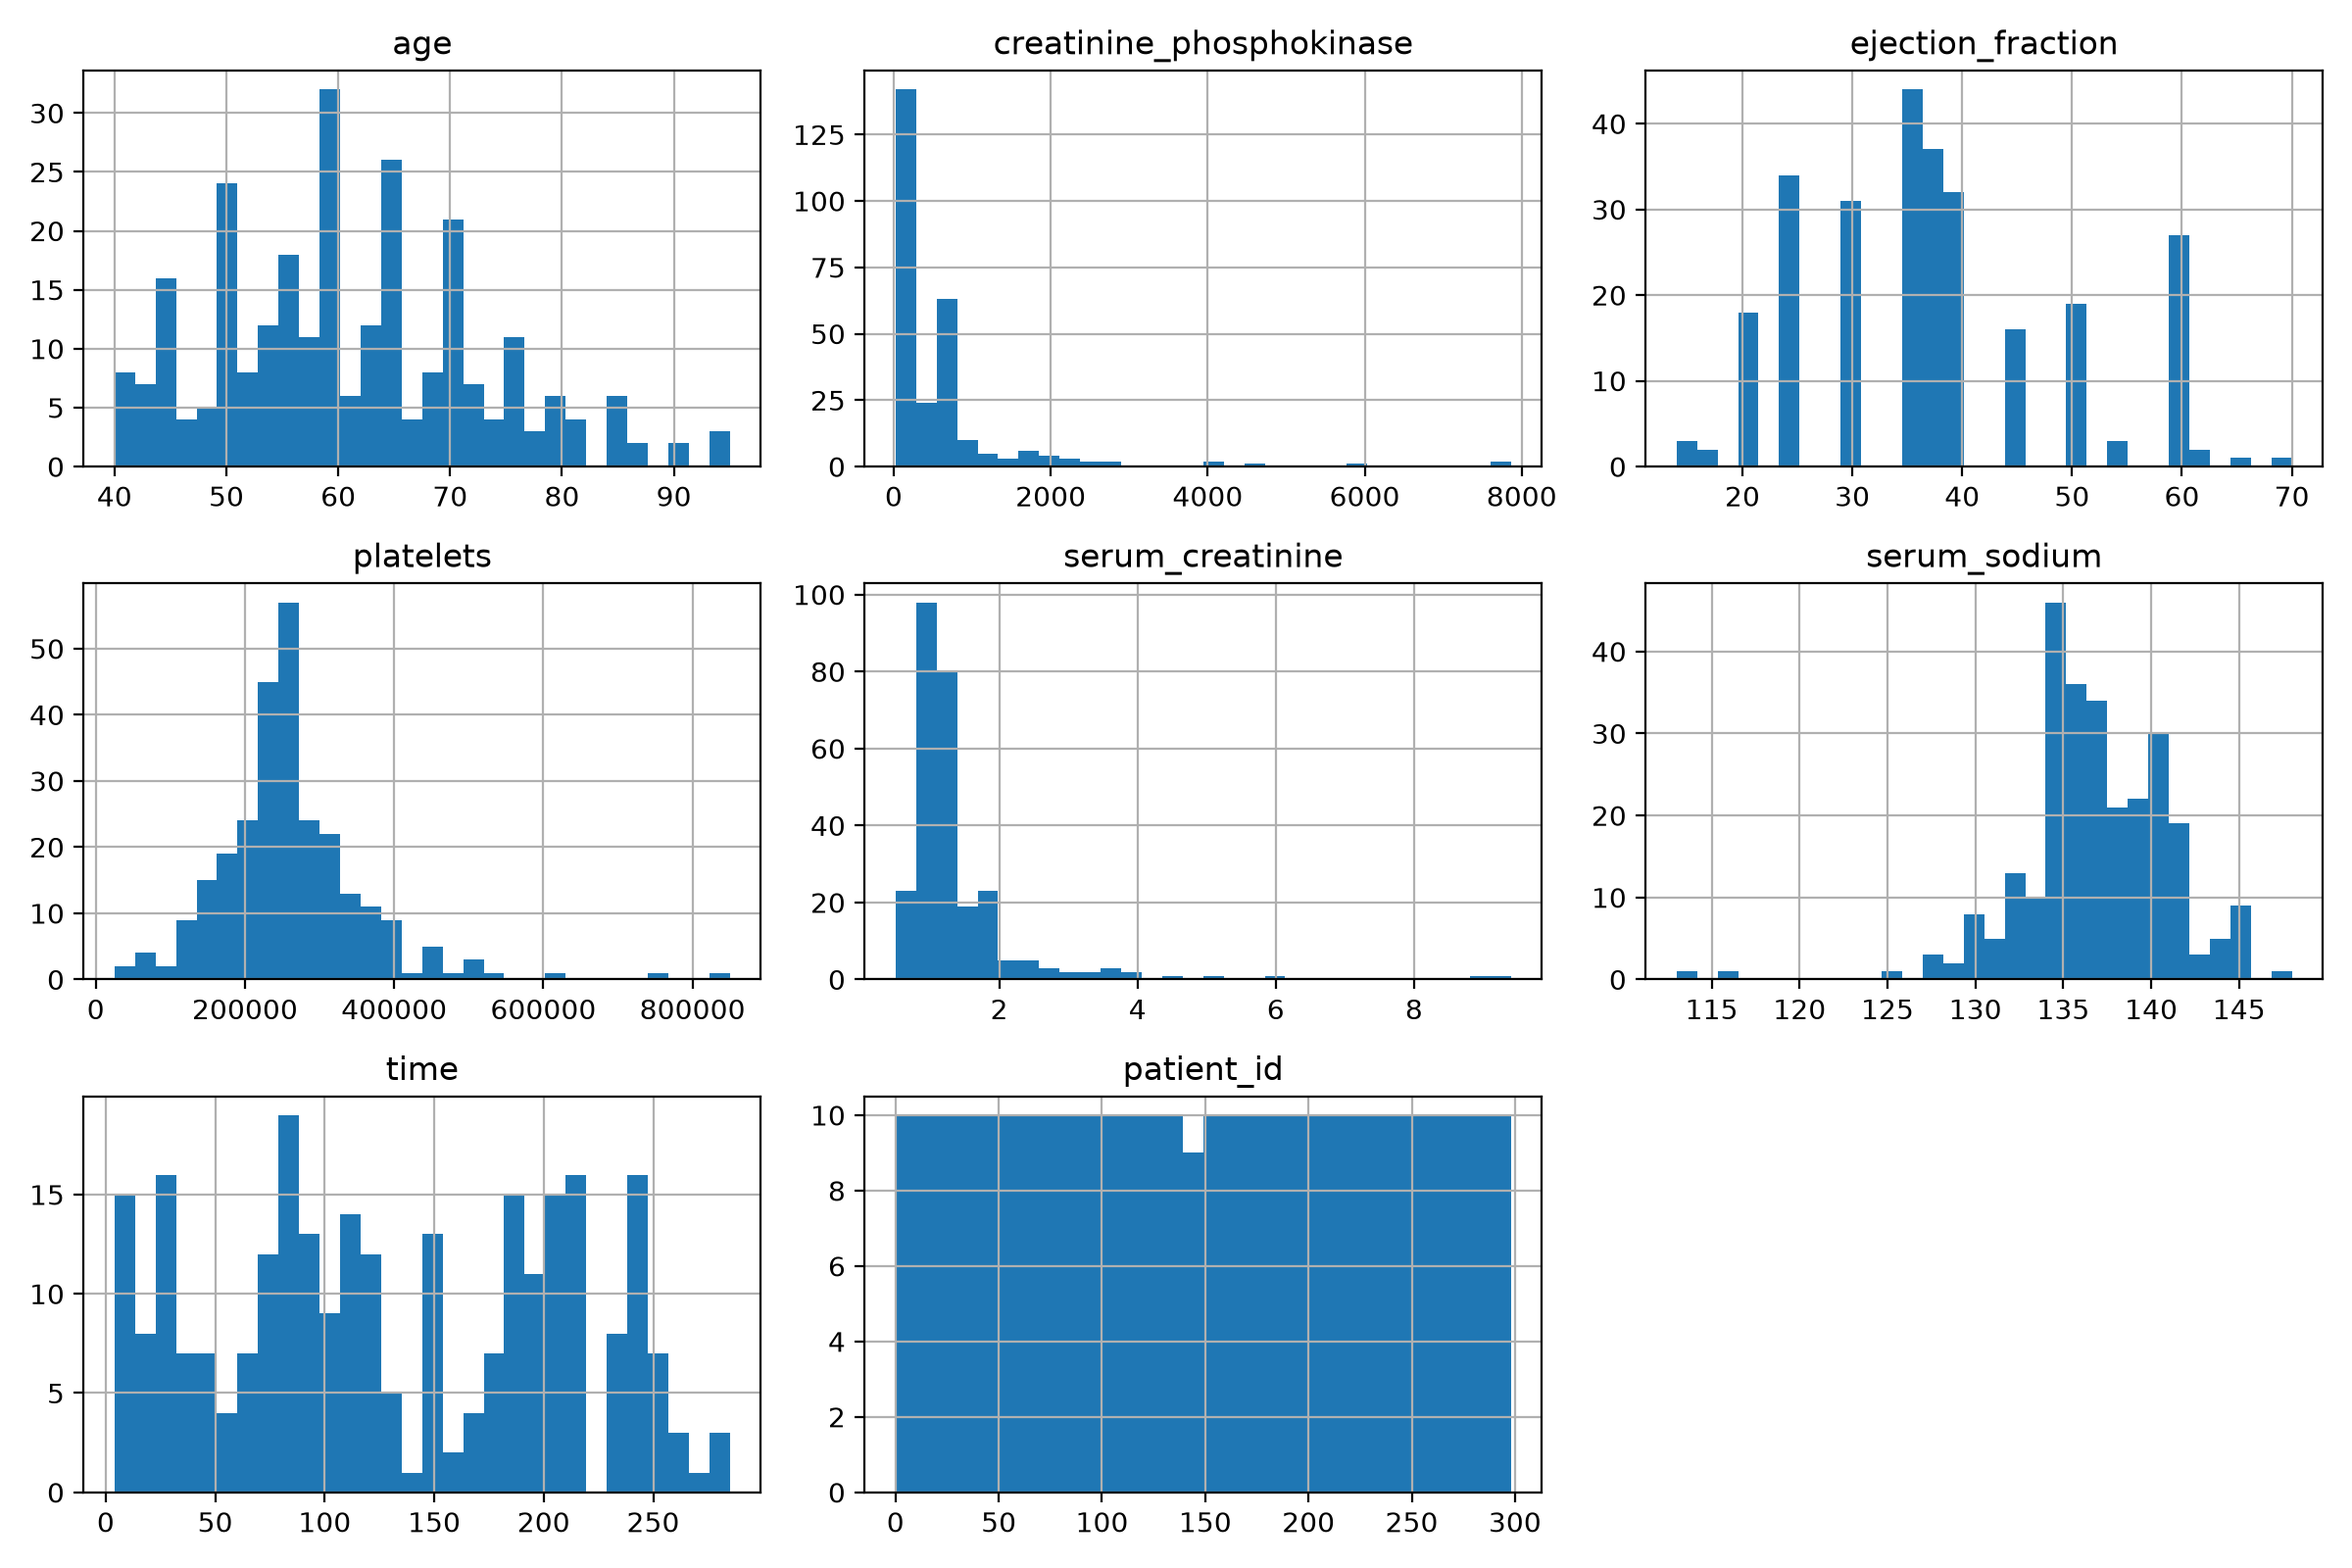
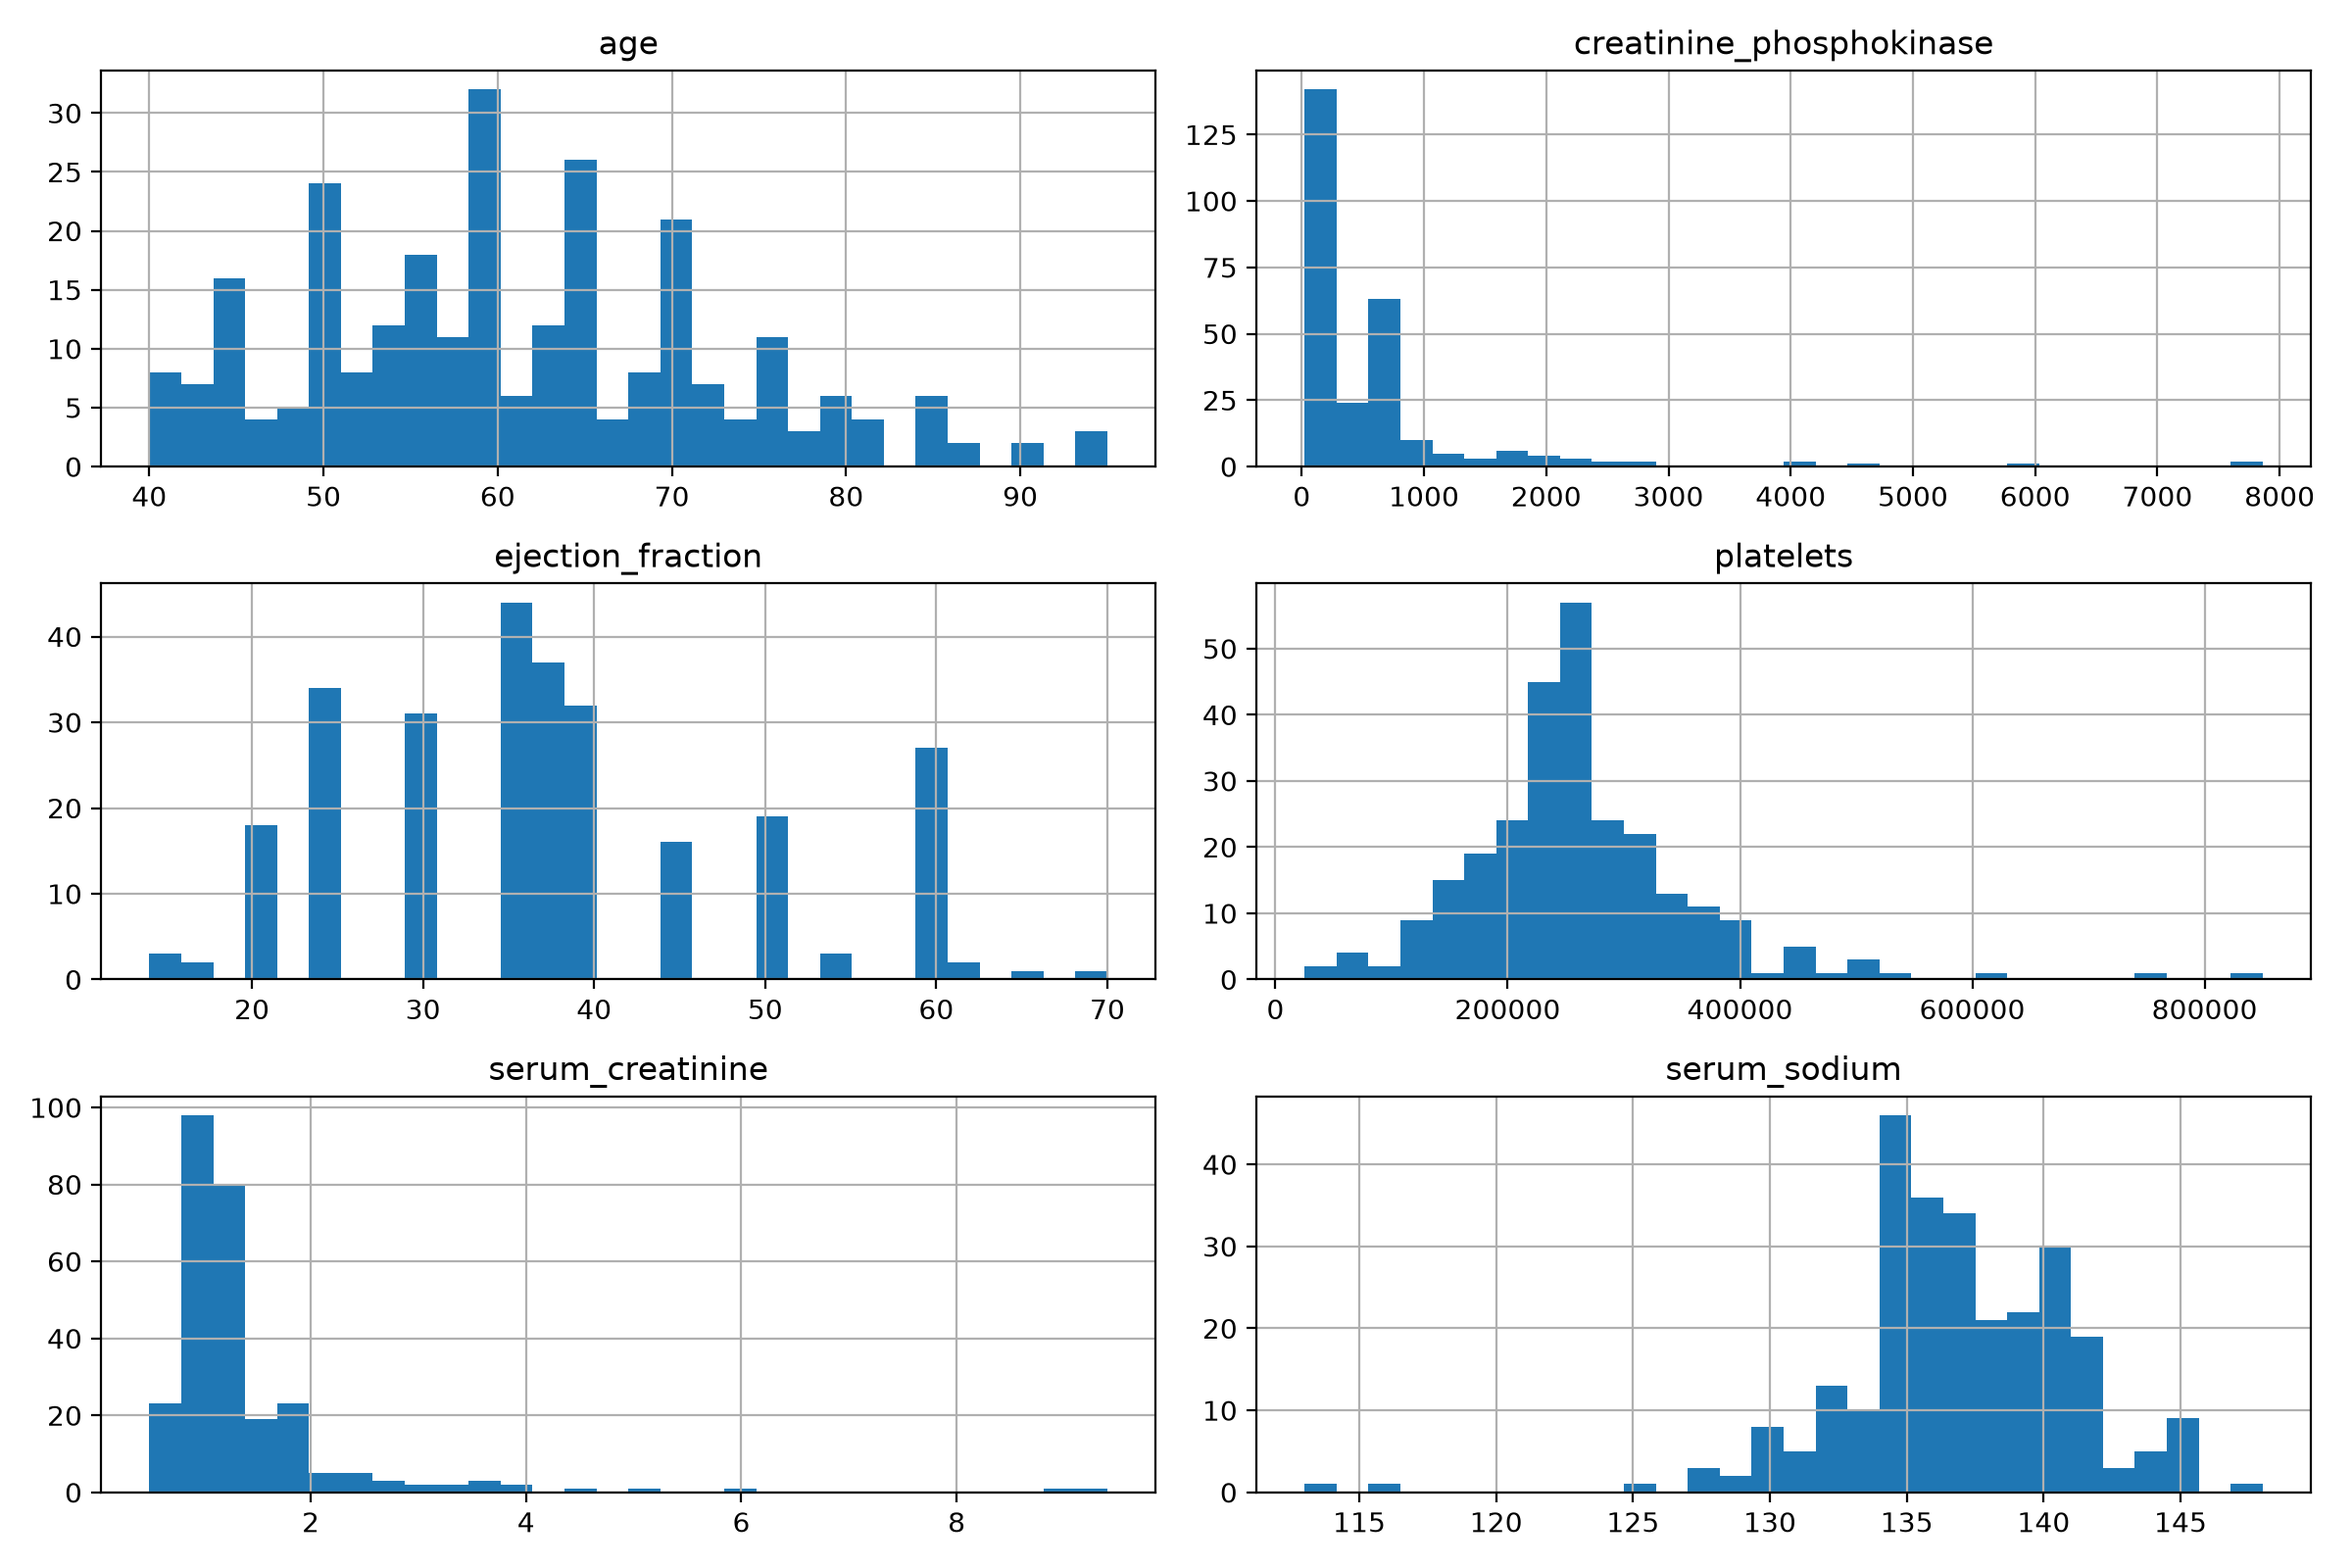
finished up coding of both files

diff --git a/understandingDataset.py b/understandingDataset.py
@@ -3,6 +3,9 @@ from pathlib import Path
 import pandas as pd
 import matplotlib.pyplot as plt
 
+pd.set_option("display.width", 200)
+pd.set_option("display.max_columns", None)
+
 def readDataAndLoad():
     Base = Path(__file__).parent
     Data = Base / "data" / "Heart_failure_data.csv"
@@ -49,18 +52,13 @@ def checkIfDiscreteOrContinuousData(df):
 
 def summaryStatistics(df, discreet, continuous):
     print(f"----------Describing values in the continuous column---------\n")
-    print(df[continuous].describe())
+    print(round(df[continuous].describe(), 2))
     print(f"----------% of patients that have binary value of 1(True)---------\n")
     print(round(df[discreet].mean()*100, 1))
     print(f"----------How many values are missing from each column---------\n")
     print(df.isna().sum())
     print(f"----------Amount of patients with no missing values---------\n")
     print(len(df.dropna()))
-
-def dfCorrelation(df):
-    print(f"\n----------Correlation---------\n")
-    print(df.corr())
-    return
 
 def dfHistogram(df, continuous):
     df[continuous].hist(bins=30, figsize=(12, 8))
@@ -72,8 +70,8 @@ def dfHistogram(df, continuous):
 if __name__ == "__main__":
     df = readDataAndLoad()
     countRowsAndColumns(df)
+    df = df.drop(columns=["patient_id","time"])
     checkDataTypes(df)
     discreet, continuous = checkIfDiscreteOrContinuousData(df)
     summaryStatistics(df, discreet, continuous)
-    dfCorrelation(df)
     dfHistogram(df, continuous)
